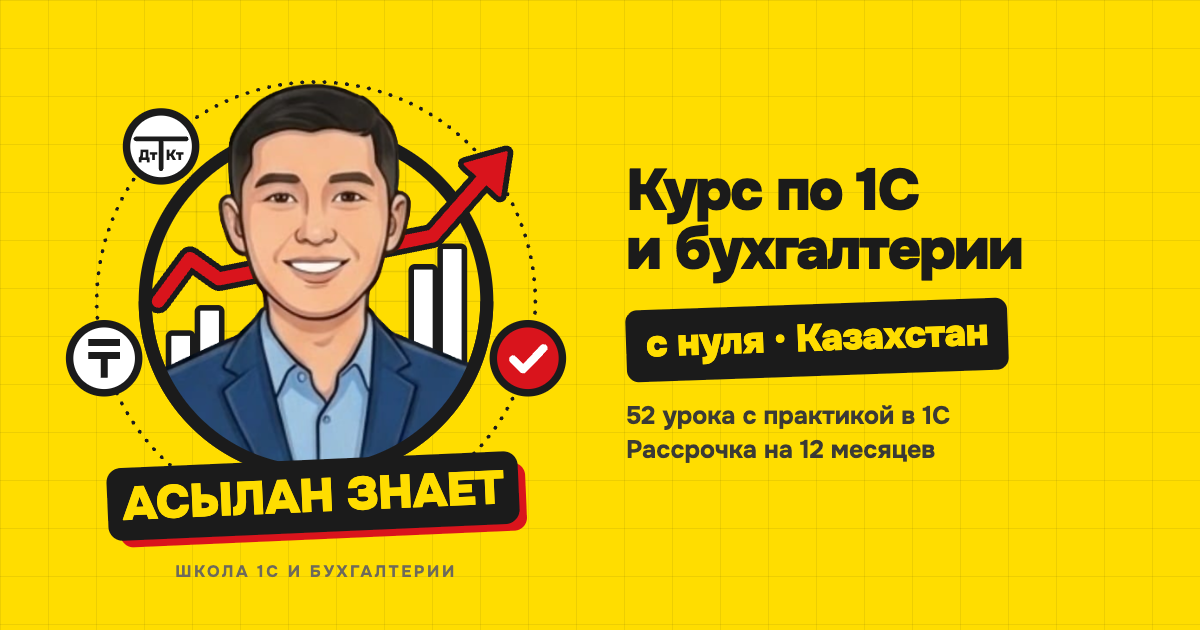
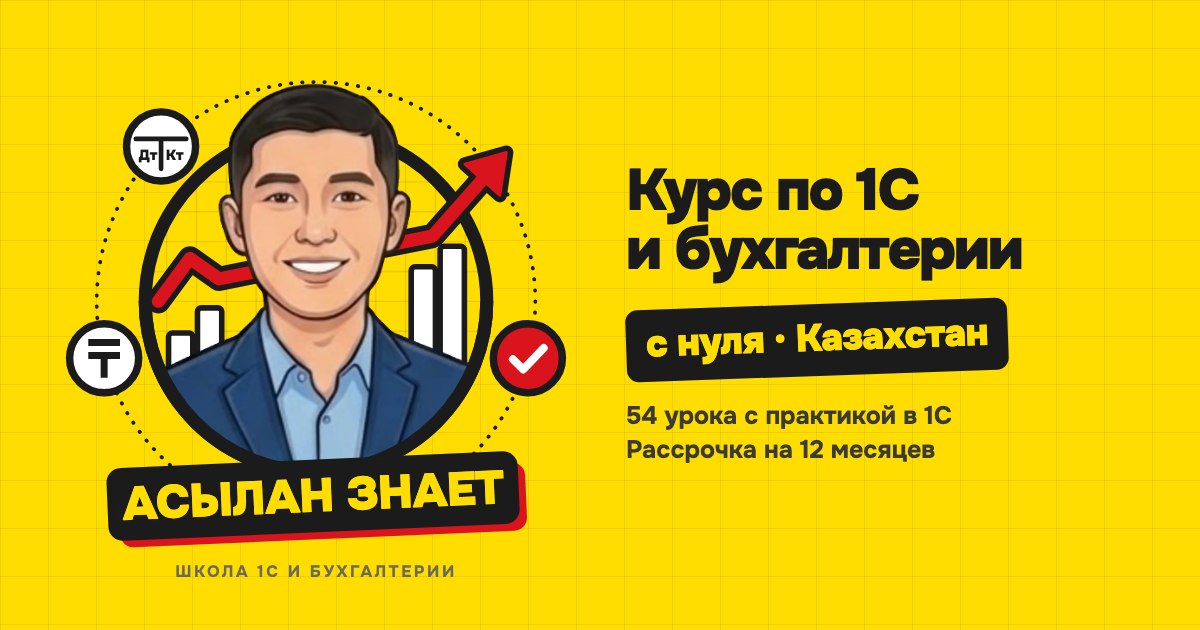
Бесплатные уроки и платформа, цена на первом экране, проверка каждой практики, превью с 54 уроками

Changed region(s): [[0.5242, 0.6333, 0.8017, 0.6937]]

diff --git a/index.html b/index.html
@@ -107,15 +107,15 @@
 
       <div class="hero__cta">
         <a class="btn btn--red btn--lg" href="#zayavka">Записаться на обучение <svg class="icon"><use href="#i-arrow"/></svg></a>
-        <a class="btn btn--lg" href="#programma">Смотреть программу</a>
+        <a class="btn btn--lg" href="#zayavka" data-wa="Здравствуйте! Хочу бесплатные уроки по 1С.">Пройти 2&nbsp;урока бесплатно</a>
       </div>
 
       <ul class="hero__facts">
         <li><span class="tick"><svg class="icon"><use href="#i-check"/></svg></span>С нуля, без опыта</li>
         <li><span class="tick"><svg class="icon"><use href="#i-check"/></svg></span>54&nbsp;урока с&nbsp;практикой</li>
-        <li><span class="tick"><svg class="icon"><use href="#i-check"/></svg></span>ЭСФ, СНТ, формы 200.00 и&nbsp;910.00</li>
-        <li><span class="tick"><svg class="icon"><use href="#i-check"/></svg></span>Проверка вашей базы</li>
-        <li><span class="tick"><svg class="icon"><use href="#i-check"/></svg></span>Рассрочка на&nbsp;12&nbsp;месяцев</li>
+        <li><span class="tick"><svg class="icon"><use href="#i-check"/></svg></span>Первые 2&nbsp;урока бесплатно</li>
+        <li><span class="tick"><svg class="icon"><use href="#i-check"/></svg></span>Асылан проверяет каждую практику</li>
+        <li><span class="tick"><svg class="icon"><use href="#i-check"/></svg></span>От&nbsp;8&nbsp;250&nbsp;₸ в&nbsp;месяц в&nbsp;рассрочку</li>
       </ul>
     </div>
 
@@ -244,7 +244,7 @@
       <article class="who__card reveal" style="--d:0ms">
         <span class="who__ic"><svg class="icon"><use href="#i-home"/></svg></span>
         <h3>Новичкам с&nbsp;нуля</h3>
-        <p>Никогда не&nbsp;открывали 1С и&nbsp;не&nbsp;знаете, что такое проводка. Начнём с&nbsp;первого входа в&nbsp;программу и&nbsp;дойдём до&nbsp;закрытия месяца.</p>
+        <p>Никогда не&nbsp;открывали 1С и&nbsp;не&nbsp;знаете, что такое проводка. Начнём на&nbsp;листе бумаги: что такое счёт и&nbsp;проводка. Потом войдём в&nbsp;1С и&nbsp;дойдём до&nbsp;закрытия месяца.</p>
       </article>
       <article class="who__card reveal" style="--d:80ms">
         <span class="who__ic"><svg class="icon"><use href="#i-doc"/></svg></span>
@@ -304,7 +304,7 @@
             <div class="journal">
               <div class="journal__head"><span>Урок</span><span>Что делаете</span><span>Статус</span></div>
               <ul>
-                <li><b>Как устроен курс и&nbsp;учебное ТОО</b><span>Узнаёте правила курса и&nbsp;отправляете первое сообщение по&nbsp;шаблону</span><i>Освоите</i></li>
+                <li><b>Как устроен курс и&nbsp;учебное ТОО</b><span>Узнаёте правила курса и&nbsp;сдаёте первую практику на&nbsp;платформе</span><i>Освоите</i></li>
                 <li><b>Операция, документ, баланс</b><span>Раскладываете имущество ТОО на&nbsp;активы, обязательства и&nbsp;капитал</span><i>Освоите</i></li>
                 <li><b>Счёт, дебет, кредит и&nbsp;проводка</b><span>Пишете проводку по&nbsp;простой операции</span><i>Освоите</i></li>
                 <li><b>План счетов и&nbsp;ОСВ</b><span>Читаете оборотно-сальдовую ведомость: сальдо, обороты, итог</span><i>Освоите</i></li>
@@ -313,6 +313,7 @@
               </ul>
             </div>
             <p class="mod__result">После модуля вы пишете проводки по&nbsp;простым операциям и&nbsp;читаете ОСВ.</p>
+            <p class="mod__free">Первые два урока этого модуля открыты бесплатно. <a href="#zayavka" data-wa="Здравствуйте! Хочу бесплатные уроки по 1С.">Получить доступ в&nbsp;WhatsApp</a></p>
           </section>
 
           <section class="mod" role="tabpanel" id="m2" aria-labelledby="t2" hidden>
@@ -483,19 +484,19 @@
         <span class="step__num mono">01</span>
         <span class="step__ic"><svg class="icon"><use href="#i-play"/></svg></span>
         <h3>Смотрите урок</h3>
-        <p>В&nbsp;каждом ролике одна тема, 8–&#8288;12&nbsp;минут. Асылан показывает её&nbsp;на&nbsp;экране 1С.</p>
+        <p>Учёба идёт на&nbsp;платформе школы. В&nbsp;каждом ролике одна тема, 5–&#8288;12&nbsp;минут: сначала на&nbsp;доске, с&nbsp;модуля&nbsp;1 на&nbsp;экране 1С.</p>
       </li>
       <li class="step">
         <span class="step__num mono">02</span>
         <span class="step__ic"><svg class="icon"><use href="#i-cursor"/></svg></span>
         <h3>Повторяете в&nbsp;базе</h3>
-        <p>К&nbsp;каждому модулю получаете документы учебного ТОО: счета, накладные, выписку. Вводите их&nbsp;в&nbsp;своей базе и&nbsp;сверяете контрольные цифры. После урока проходите тест из&nbsp;6&nbsp;вопросов.</p>
+        <p>К&nbsp;каждому уроку получаете документы учебного ТОО: счета, накладные, выписку. Вводите их&nbsp;в&nbsp;своей базе и&nbsp;сверяете контрольные цифры. После урока проходите тест из&nbsp;6&nbsp;вопросов, его можно пересдать.</p>
       </li>
       <li class="step">
         <span class="step__num mono">03</span>
         <span class="step__ic"><svg class="icon"><use href="#i-chat"/></svg></span>
         <h3>Получаете разбор</h3>
-        <p>Раз в&nbsp;неделю Асылан разбирает базы группы: где ошибка и&nbsp;как найти такую самому.</p>
+        <p>Асылан проверяет каждую практику: принимает или возвращает с&nbsp;комментарием за&nbsp;рабочий день. Вопрос пишете прямо под заданием. Раз в&nbsp;неделю он разбирает базы группы.</p>
       </li>
       <li class="step">
         <span class="step__num mono">04</span>
@@ -607,7 +608,7 @@
       <article class="plan plan--hit reveal" style="--d:0ms">
         <span class="plan__tag">Рекомендуем</span>
         <h3>В&nbsp;группе</h3>
-        <p class="plan__for">Полный курс и&nbsp;проверка итоговой работы.</p>
+        <p class="plan__for">Полный курс с&nbsp;проверкой каждой практики.</p>
         <p class="plan__price">99&nbsp;000&nbsp;₸</p>
         <p class="plan__early">89&nbsp;000&nbsp;₸ при оплате за&nbsp;7&nbsp;дней до&nbsp;старта</p>
         <p class="plan__split">Рассрочка Kaspi: 8&nbsp;250&nbsp;₸ в&nbsp;месяц, 12&nbsp;месяцев</p>
@@ -615,7 +616,7 @@
           <li>54&nbsp;видеоурока и&nbsp;тесты</li>
           <li>Учебная база 1С и&nbsp;задания</li>
           <li>Разборы в&nbsp;группе раз в&nbsp;неделю</li>
-          <li>Проверка итоговой работы</li>
+          <li>Проверка каждой практики и&nbsp;итоговой работы</li>
         </ul>
         <a class="btn btn--red btn--block" href="#zayavka" data-plan="В группе">Записаться</a>
       </article>
@@ -694,6 +695,10 @@
         <p>Да. Первый модуль идёт без 1С: счёт, дебет, кредит, проводка. В&nbsp;программу заходите после него.</p>
       </details>
       <details>
+        <summary>Можно попробовать до&nbsp;оплаты?</summary>
+        <p>Да. Первые два урока на&nbsp;платформе бесплатные: ролик, практика и&nbsp;тест, как в&nbsp;платном курсе. <a href="#zayavka" data-wa="Здравствуйте! Хочу бесплатные уроки по 1С.">Напишите в&nbsp;WhatsApp</a>, дадим доступ.</p>
+      </details>
+      <details>
         <summary>По&nbsp;какой программе и&nbsp;законодательству учимся?</summary>
         <p>«1С:Бухгалтерия 8 для Казахстана», редакция 3.0, Налоговый кодекс РК 2026&nbsp;года.</p>
       </details>
@@ -707,7 +712,7 @@
       </details>
       <details>
         <summary>Что, если у&nbsp;меня не&nbsp;получится задание?</summary>
-        <p>Это обычное дело. Ошибки разбираем: покажем, где ошиблись и&nbsp;как искать самому.</p>
+        <p>Это обычное дело. Вопрос пишете под заданием на&nbsp;платформе, Асылан отвечает за&nbsp;рабочий день: где ошибка и&nbsp;как искать такую самому.</p>
       </details>
       <details>
         <summary>Сколько человек в&nbsp;группе?</summary>

diff --git a/css/styles.css b/css/styles.css
@@ -436,6 +436,8 @@ a.cbtn:hover, button.cbtn:hover { filter: brightness(.96); transform: translateY
 }
 .journal li i::before { content: "✓"; font-weight: 900; }
 .mod__result { margin-top: 18px; padding: 13px 16px; font-size: 15.5px; background: #FFF6BF; border-left: 4px solid var(--yellow-deep); border-radius: 0 8px 8px 0; }
+.mod__free { margin-top: 12px; font-size: 15.5px; }
+.mod__free a { font-weight: 700; color: var(--red, #E0231C); text-decoration: underline; text-underline-offset: 3px; }
 
 .app__cmd { display: flex; align-items: center; gap: 12px; padding: 14px 18px; background: #F7F7F2; border-top: 1px solid var(--line-gray); }
 .app__status { margin-left: auto; font-family: var(--mono); font-size: 13px; color: var(--muted); }

diff --git a/js/main.js b/js/main.js
@@ -53,6 +53,14 @@
     else if (a.hasAttribute('data-optional')) a.hidden = true; // контакт не указан — ссылку не показываем
   });
 
+  // Ссылки с готовым текстом: <a data-wa="текст сообщения">. Без номера WhatsApp ведут к форме заявки.
+  $$('[data-wa]').forEach(function (a) {
+    var url = waLink(a.dataset.wa);
+    if (!url) return;
+    a.href = url; a.target = '_blank'; a.rel = 'noopener';
+    a.addEventListener('click', function () { track('free_lessons'); });
+  });
+
   /* ---------- Даты ---------- */
   var now = new Date();
   var dateEl = $('#formDate');
